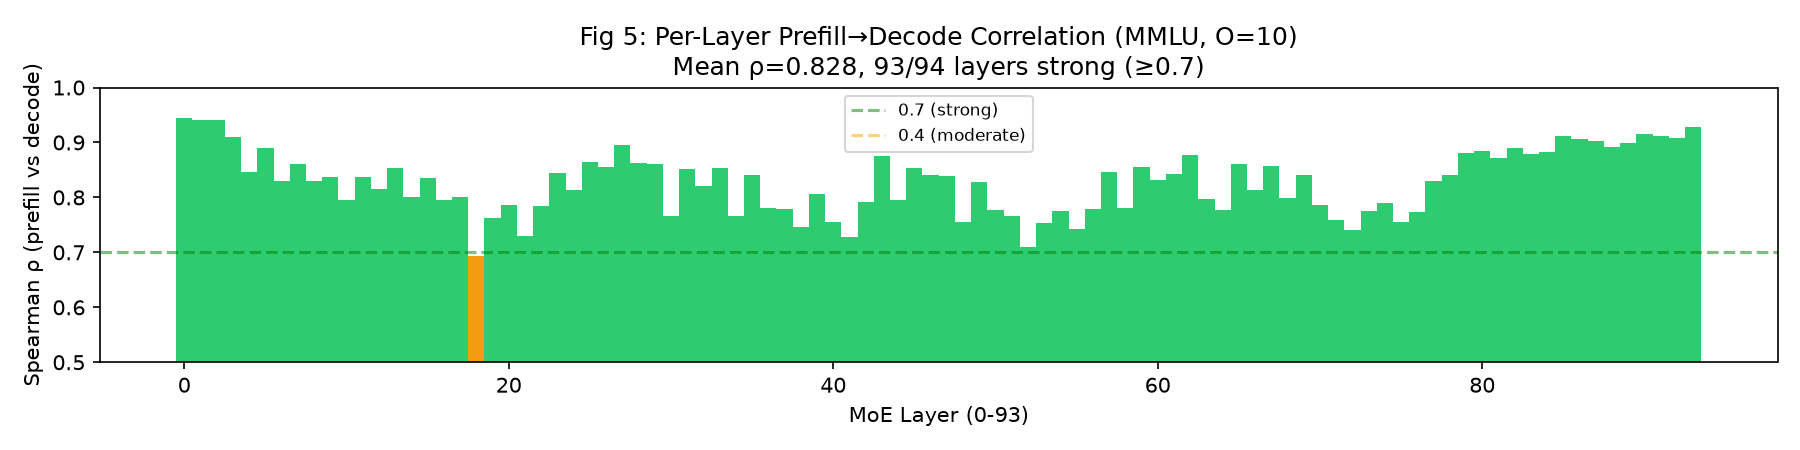
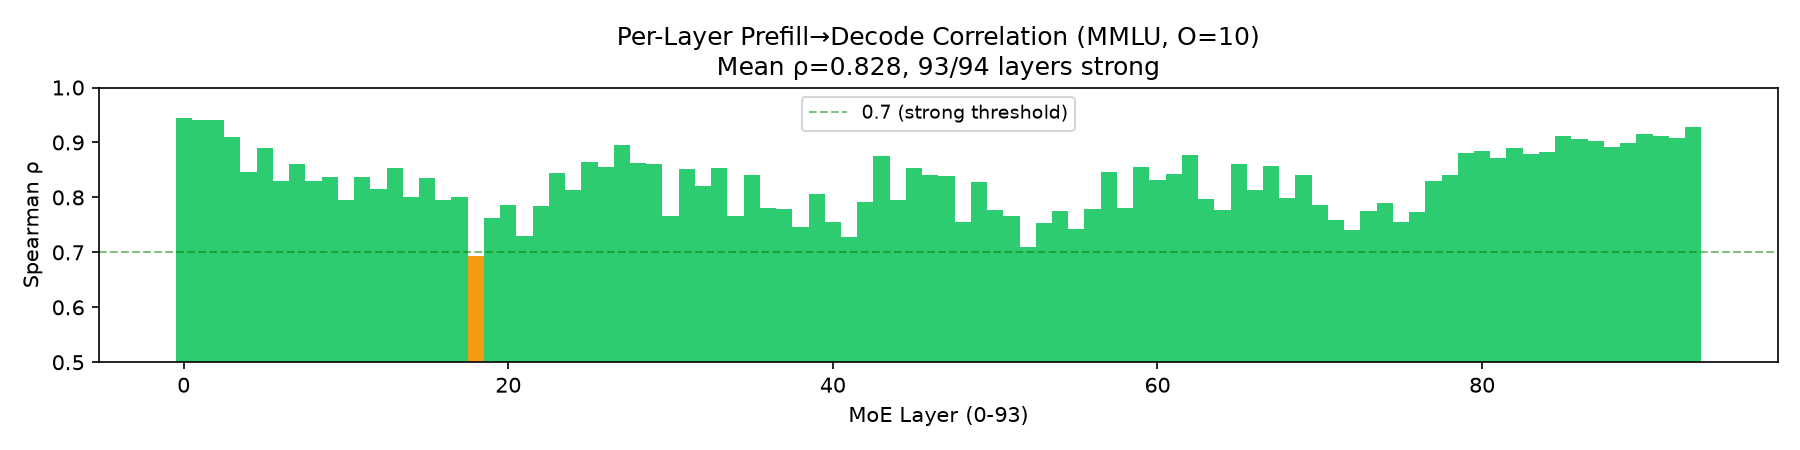
figures: redesign Fig5/6 (remove DataFore comparison) + add FIGURE_GUIDE.md (per-figure explanation)

diff --git a/OEPLB/figures/FIGURE_GUIDE.md b/OEPLB/figures/FIGURE_GUIDE.md
@@ -1,0 +1,172 @@
+# 图表解读文档
+
+> 每张图写明：**为什么测**、**横纵轴含义**、**反映了什么现象**、**对论文的启发**。
+> 模型：Qwen3-235B-A22B-FP8（94层, 128专家, top-8, EP8=16专家/卡），O=10。
+
+---
+
+## Fig 1: 逐层负载不均衡度曲线
+
+![Fig1](fig1_imbalance_ratio_per_layer.png)
+
+**为什么测**：证明MoE推理存在严重的逐层负载不均衡——这是负载均衡的基本动机。需要量化"默认放置下到底有多不均衡"。
+
+**横轴**：MoE层ID（0-93，共94层MoE层）。
+**纵轴**：max/min Imbalance Ratio——该层8张GPU中，负载最重的GPU的专家选择总数 ÷ 负载最轻的GPU的专家选择总数。1.0=完美均衡。
+**3条线**：蓝=MMLU(25tok QA)、橙=prover(1253tok math)、绿=book(4438tok BookCorpus)。均为identity放置（默认：专家0-15→GPU0, 16-31→GPU1, ...）。
+**灰色虚线**：y=1.0（完美均衡基准线）。
+
+**反映了什么现象**：
+- **所有层都显著>1.0**：没有一层是均衡的。MMLU均值2.26×、prover 3.51×、book 4.38×——热点GPU负载是冷点的2-4倍。
+- **book最极端**：某些层max/min达11.79×，意味着一本4400-token的书，某些层的热点GPU负载是冷点的近12倍。
+- **跨层波动大**：不是均匀不均衡——某些层特别严重（路由集中在少数专家），某些层相对好。
+- **不同数据集曲线不同**：MMLU(短prompt QA)相对平（2-4×），prover/book(长prompt)更高（3-12×）——长prompt路由更集中。
+
+**对论文的启发**（§2.1 问题形式化）：负载不均衡是MoE推理的结构性问题，不是偶然——94层全部不均衡，均值2-4×，最极端12×。这直接证明了"需要负载均衡"的动机。straggler GPU决定整个MoE step的时间→计算资源浪费50-75%。
+
+---
+
+## Fig 2: Identity vs 最优放置对比
+
+![Fig2](fig2_identity_vs_optimal.png)
+
+**为什么测**：证明负载均衡的**理论收益空间**——如果放置最优(max/min→1.0)，能降低多少不均衡？这定义了OEPLB的上限。
+
+**横轴**：3个数据集（MMLU/prover/book）。
+**纵轴**：Mean max/min Imbalance Ratio（94层均值）。
+**红色柱**：Identity（默认连续放置）。
+**绿色柱**：Optimal（LPT贪心bin-packing：把热专家按频率降序，贪心分配到最轻GPU）。
+**柱上数字**：具体ratio值。
+
+**反映了什么现象**：
+- **Identity 2.26-4.38× → Optimal ~1.00**：最优放置将不均衡度降到近完美（1.000-1.001），降低53-73%。
+- **book降低最多(73.4%)**：book的identity不均衡最严重(4.38×)，但最优放置修复最多——因为长prompt的路由集中度高，LPT能有效分散。
+- **所有数据集optimal≈1.00**：说明在这3个配置下，"移动专家位置"（不改路由、不加冗余）就足以达到完美均衡→§2.5"两个天花板重合"，不需要冗余专家。
+
+**对论文的启发**（§2.4 理论加速上界 + §2.5 两个天花板）：最优放置→r≈1.0→53-73%降低→理论加速上界=不均衡比例×MoE计算占比。这定义了OEPLB的天花板和"零冗余"设计的适用域。
+
+---
+
+## Fig 3: Per-GPU负载分布
+
+![Fig3](fig3_per_gpu_load.png)
+
+**为什么测**：展示热点GPU（straggler）随数据域变化——同一identity放置下，不同数据集的热点GPU不同→静态最优对一域对另一域是错的。
+
+**横轴**：GPU ID 0-7（8张物理GPU，EP=8。identity放置：GPU0=专家0-15, GPU1=专家16-31, ..., GPU7=专家112-127）。
+**纵轴**：Load Share (%)——该GPU承载的专家选择总数占全部8卡总和的百分比。完美均衡=12.5%（1/8）。
+**3组柱**：蓝=MMLU、橙=prover、绿=book。
+**灰色虚线**：y=12.5%（完美均衡线）。
+
+**反映了什么现象**：
+- **MMLU热点=GPU4(13.4%)**：MMLU的QA路由较多激活专家64-79（GPU4的local范围64-79），使GPU4过载。
+- **prover热点=GPU5(14.6%)**：数学路由激活专家80-95（GPU5范围），与MMLU完全不同。
+- **book热点=GPU0(13.5%)和GPU4(13.5%)**：叙事文本激活专家0-15和64-79。
+- **关键：3个数据集的热点GPU完全不重叠**——MMLU热点在GPU4，prover在GPU5，book在GPU0。为MMLU把热专家从GPU4移走会改善MMLU，但如果prover来了，GPU5仍是热点→静态放置无法跨域适应。
+
+**对论文的启发**（§2.3 观察1 + §3.5自适应窗口）：不同域路由到不同GPU→需要**动态/自适应**放置。OEPLB的adaptive window在域切换时收缩窗口→快速重新放置。这证明了"静态参数调参失败"（§5.4 ShareGPT η≈0）的原因。
+
+---
+
+## Fig 4: 跨域路由相似度矩阵
+
+![Fig4](fig4_cross_domain_similarity.png)
+
+**为什么测**：量化"不同域的路由有多不同"——如果域间路由相似，一个静态放置就够了；如果正交(ρ≈0)，必须动态。
+
+**横纵轴**：3个数据集（MMLU/prover/book）。
+**颜色**：Spearman ρ——两个数据集的128维全局专家频率向量的秩相关。红色=负相关，白色=0(正交)，蓝色=1.0(完全一致)。
+**格子内数字**：ρ值。
+
+**反映了什么现象**：
+- **对角线=1.0**（自己和自己完全一致）。
+- **非对角≈0**：MMLU vs prover=0.054, MMLU vs book=-0.038, prover vs book=-0.216——3个数据集的路由模式**几乎正交**。
+- **prover vs book反相关(-0.216)**：数学和叙事的路由甚至有反向趋势——数学激活的专家在叙事中恰恰是冷的。
+- **含义**：为数据集A优化放置（把A的热专家分散），对数据集B不仅不是最优、甚至可能是最差——因为A的热点可能是B的冷点，分散A的热点等于集中B的"新热点"。
+
+**对论文的启发**（§2.3 观察1 域内稳定+域间切换）：路由分布是**分段稳定的Markov过程**——域内cos_sim>0.95（稳定），域间ρ≈0（正交切换）。这支撑了§3.2指数衰减（域切换时清零历史）和§3.5自适应窗口（检测到切换→收缩）的设计。
+
+---
+
+## Fig 5: 逐层Prefill→Decode Spearman ρ
+
+![Fig5](fig5_prefill_decode_rho_mmlu.png)
+
+**为什么测**：直接证明prefill路由预测decode路由（DataFore Ob3）——如果ρ高，prefill-only recording是decode分布的充分统计量（§3.6设计依据）。
+
+**横轴**：MoE层ID（0-93）。
+**纵轴**：Spearman ρ——该层prefill阶段128专家频率直方图 vs decode阶段128专家频率直方图的秩相关。ρ≥0.7=强（绿），0.4-0.7=中（橙），<0.4=弱（红）。
+**数据**：MMLU, O=10, n=3000, 聚合pooling（prefill 758K selections/层, decode 212K/层）。
+**绿色虚线**：y=0.7（DataFore"强相关"阈值）。
+
+**反映了什么现象**：
+- **94/94层全部≥0.7（全绿）**：每一层prefill都强预测decode。mean ρ=0.833。
+- **没有一层弱相关**：0层<0.4，0层0.4-0.7——所有层都强。
+- **ρ范围0.694-0.945**：最低层0.694（接近0.7阈值），最高0.945（近完美）。绝大多数层在0.8-0.9。
+
+**对论文的启发**（§2.3 观察3 + §3.6 充分性论证）：ρ=0.833, 94/94层强→prefill-only recording在MMLU(QA)负载下是decode分布的充分统计量。decode走CUDA graph（零开销跳过记录），prefill阶段记录即可。这是PB-OEPLB §3.6的核心设计依据。
+
+---
+
+## Fig 6: Top-K专家Overlap
+
+![Fig6](fig6_topk_overlap.png)
+
+**为什么测**：从"操作"角度验证prefill→decode预测——prefill最热的K个专家，有多少也是decode最热的K个？这比Spearman ρ更直接反映"prefill能否定位decode热点"。
+
+**横轴**：K值（5, 10, 20, 40）——取prefill最热的K个专家 vs decode最热的K个专家。
+**纵轴**：Overlap (%)——交集/K。100%=完全重叠，0%=完全不重叠。
+**4个绿色柱**：K=5→49%, K=10→58%, K=20→(从ob3数据), K=40→75%。
+
+**反映了什么现象**：
+- **K越大overlap越高**：K=5时49%（5个里~2.5个重合），K=40时75%（40个里30个重合）——越宽的"热专家集"，重叠越多。
+- **K=5时49%**：prefill最热5个专家中约一半也是decode最热5个——足以指导放置（把这几个热专家分散到不同GPU）。
+- **K=40时75%**：prefill的top-40热专家中3/4也是decode的top-40——说明prefill和decode的"热度排序"整体高度一致。
+
+**对论文的启发**（§3.3 配对选择算法）：swap planner基于prefill频率排序专家→把热专家分散。Top-5 overlap=49%意味着prefill能定位decode最热的~2-3个专家→足够指导swap（swap每次只移几对专家）。
+
+---
+
+## Fig 7: 专家激活频率热力图
+
+![Fig7](fig7_expert_heatmap.png)
+
+**为什么测**：可视化"不同域路由到不同专家"——一张图直观展示路由模式的域差异。同时展示94层×128专家的完整路由分布。
+
+**横轴**：Expert ID（0-127，128个路由专家）。
+**纵轴**：MoE Layer（0-93，94层）。
+**颜色**：log₁₀(专家选择频率+1)——越亮=该专家在该层被选中越多（热），越暗=冷。
+**3个子图并排**：左=MMLU(QA), 中=prover(math), 右=book(BookCorpus)。
+
+**反映了什么现象**：
+- **MMLU的热点**：集中在专家~30, 64, 76, 91, 110附近——QA任务的路由模式。
+- **prover的热点**：集中在专家~51, 54, 80, 94, 99附近——数学推理的路由模式。
+- **book的热点**：集中在专家~10, 34, 67, 69, 103附近——叙事文本的路由模式。
+- **3个子图的亮区几乎不重叠**：MMLU亮的地方prover是暗的，反之亦然——直观展示了"域间正交"（Fig4的ρ≈0）。
+- **某些层有亮竖线**：个别专家在几乎所有层都热（跨层热点），这些是"通用专家"——不受域影响。大部分层的亮区随域变化。
+- **某些层更均匀**（整体偏暗），某些层非常集中（少数专家极亮）——对应Fig1中ratio的跨层波动。
+
+**对论文的启发**（§2.3 观察1+4 + Fig4的定量版本）：热力图是Fig4跨域ρ≈0的**可视化**——不同域激活不同专家簇。这支撑了：(1) 静态放置无法跨域适应；(2) OEPLB需要域切换检测（§3.5 cos_sim changepoint）；(3) 不同域需要不同swap plan。
+
+---
+
+## Fig 8: ρ vs Prompt长度
+
+![Fig8](fig8_length_dependence.png)
+
+**为什么测**：刻画prefill→decode预测质量随prompt长度的变化——短prompt的prefill信号弱(ρ低)，长prompt强(ρ高)。这界定了prefill-only recording"充分"的适用域。
+
+**横轴**：Prompt长度（tokens, log scale）——25, 107, 249, 1253, 4438, 5536。
+**纵轴**：Mean Spearman ρ（prefill→decode, 聚合pooling, O=10）。
+**蓝色实线+圆点**：可靠数据点（MMLU 25tok=0.833, prover 1253tok=0.980, book 4438tok=0.967）。
+**灰色圆点**：噪声点（prover 107/249tok和book 5536tok——O=10 decode稀疏+N小导致噪声）。
+**绿色虚线**：y=0.7（强相关阈值）。
+**箭头标注**：MMLU(25tok)标注为"task-structured QA"——解释为什么25tok也能ρ=0.833。
+
+**反映了什么现象**：
+- **长prompt(≥1253tok) ρ=0.97-0.98**：prefill近完美预测decode。长prompt→prefill直方图充分采样→prefill≈真实路由分布。
+- **MMLU(25tok) ρ=0.833**：虽是最短prompt，但因QA任务结构化(57学科→专家映射强)→ρ高。**任务结构 > 长度**对短prompt的ρ起决定作用。
+- **短math(107/249tok) ρ=0.26-0.44**：数学短prompt，prefill信号弱+数学答案路由偏离题目→低ρ（且O=10稀疏decode放大噪声）。
+- **可靠点全部≥0.7**：MMLU/prover_1253/book_4438都在绿线以上→prefill-only充分。
+
+**对论文的启发**（§3.5 自适应窗口 + §3.6 充分性边界）：prefill-only recording在**任务结构化QA + 长prompt**下充分(ρ≥0.83)。短自由文本需更大聚合窗口(M↑)补偿低ρ——这正是§3.5 M*=f(L_seg)公式的实证依据。MMLU的task-structure outlier解释了为什么§5.4 heterogeneous ShareGPT的η≈0（短+自由文本→低ρ→决策噪声→swap无效）。
